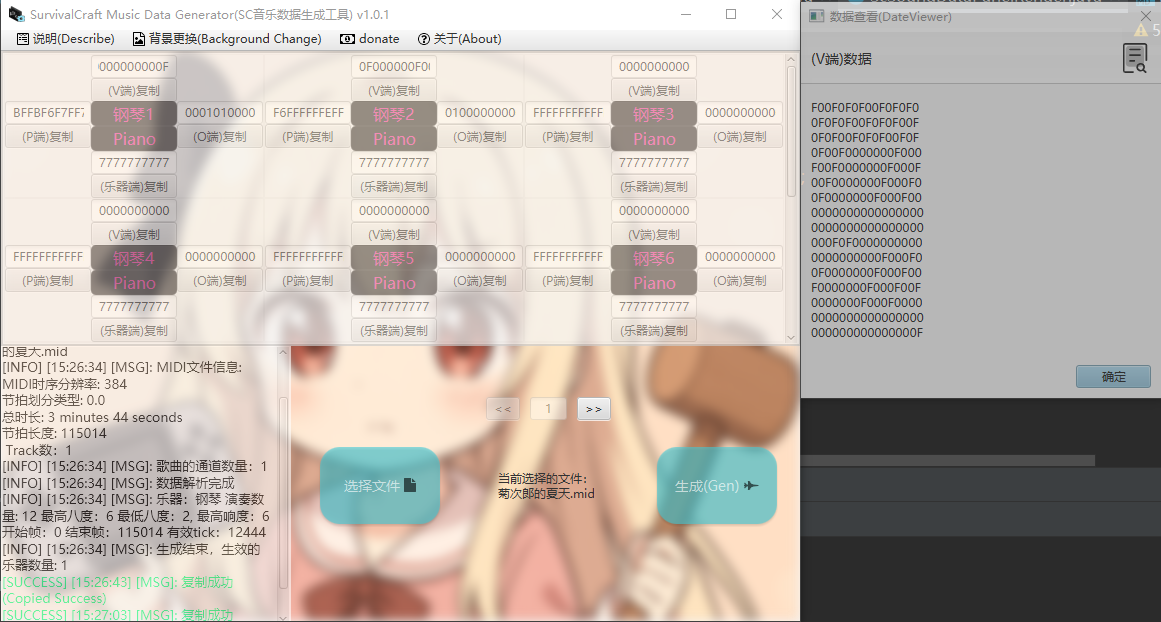
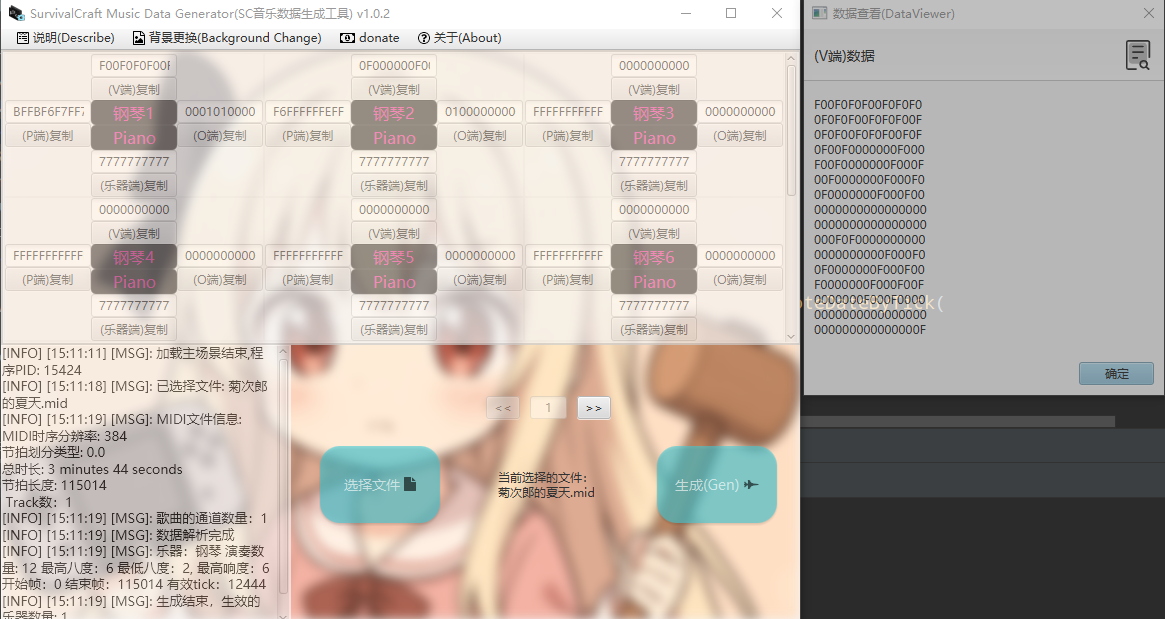
修改文档图片

diff --git a/src/main/java/com/eouna/scmusicgenerator/generator/midi/ScSoundDataPanelRender.java b/src/main/java/com/eouna/scmusicgenerator/generator/midi/ScSoundDataPanelRender.java
@@ -232,7 +232,7 @@ public class ScSoundDataPanelRender {
           alertDialog.setGraphic(
               new ImageView(new Image(FileUtils.getFullResourceUrl("icon/look.png"))));
           alertDialog.setContentText(formatDataStr.toString());
-          alertDialog.setTitle("数据查看(DateViewer)");
+          alertDialog.setTitle("数据查看(DataViewer)");
           Stage alertStage = (Stage) alertDialog.getDialogPane().getScene().getWindow();
           alertStage.setOpacity(0.7);
           alertDialog.showAndWait();
